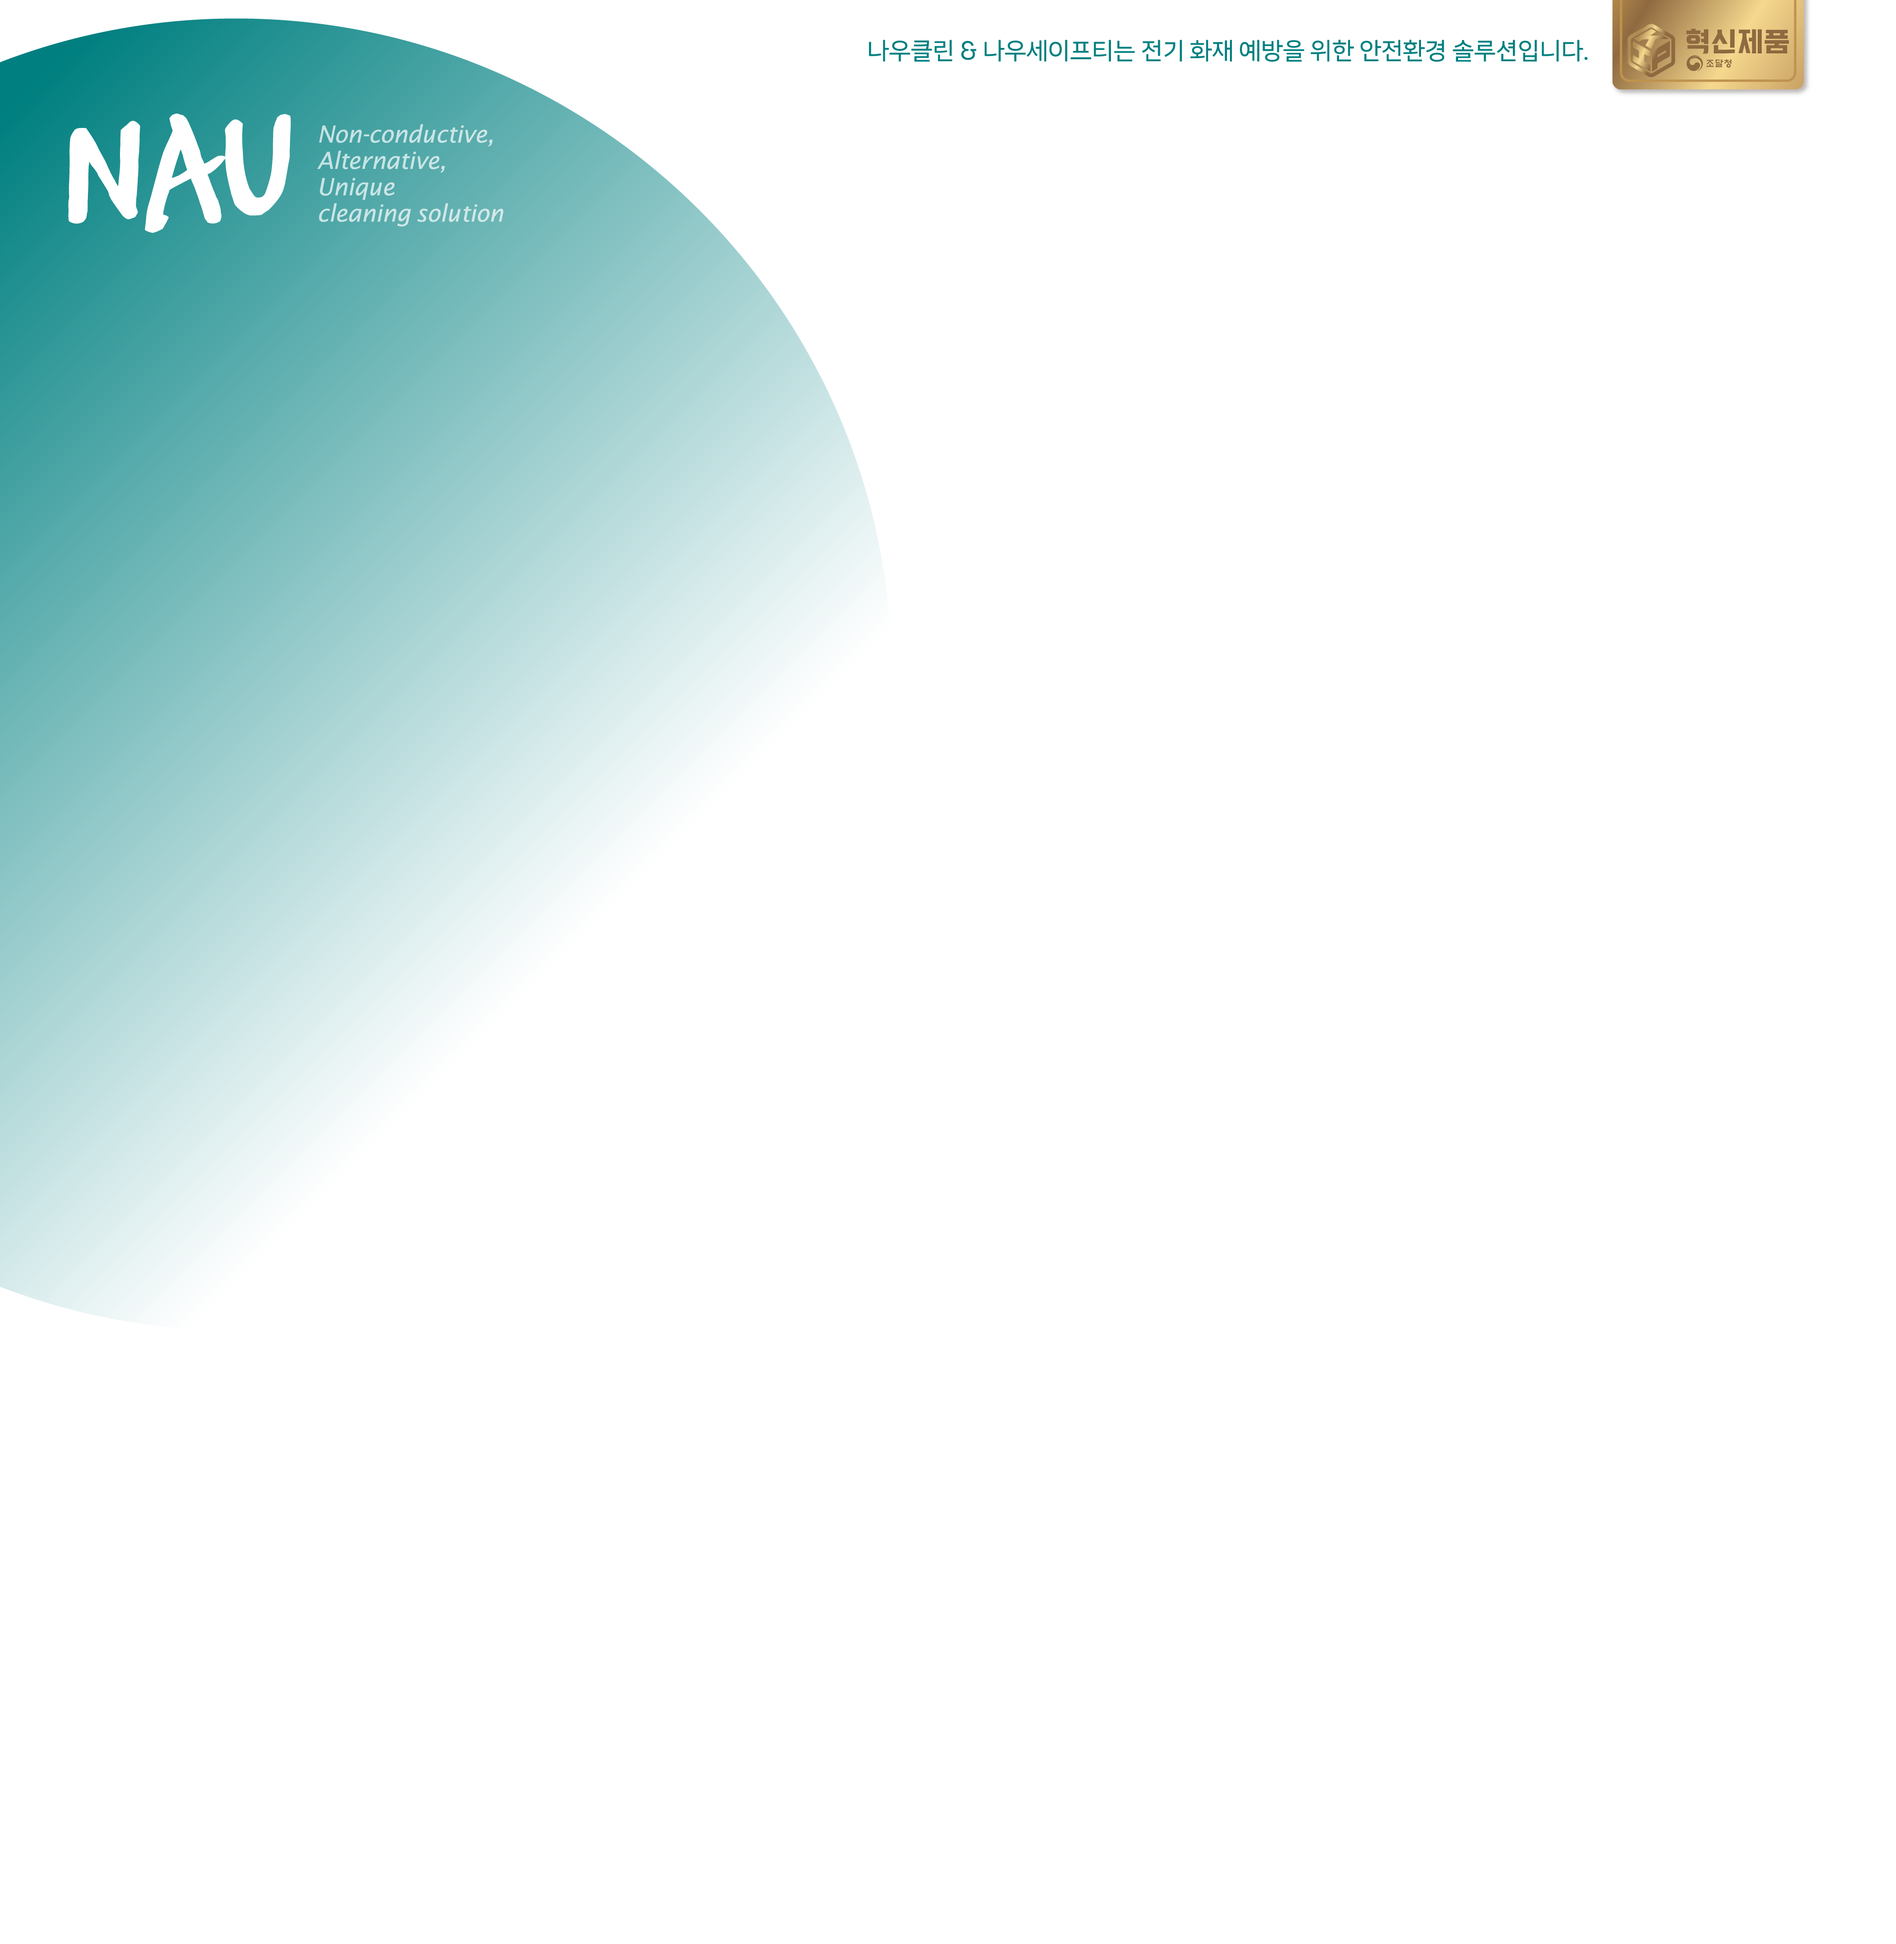
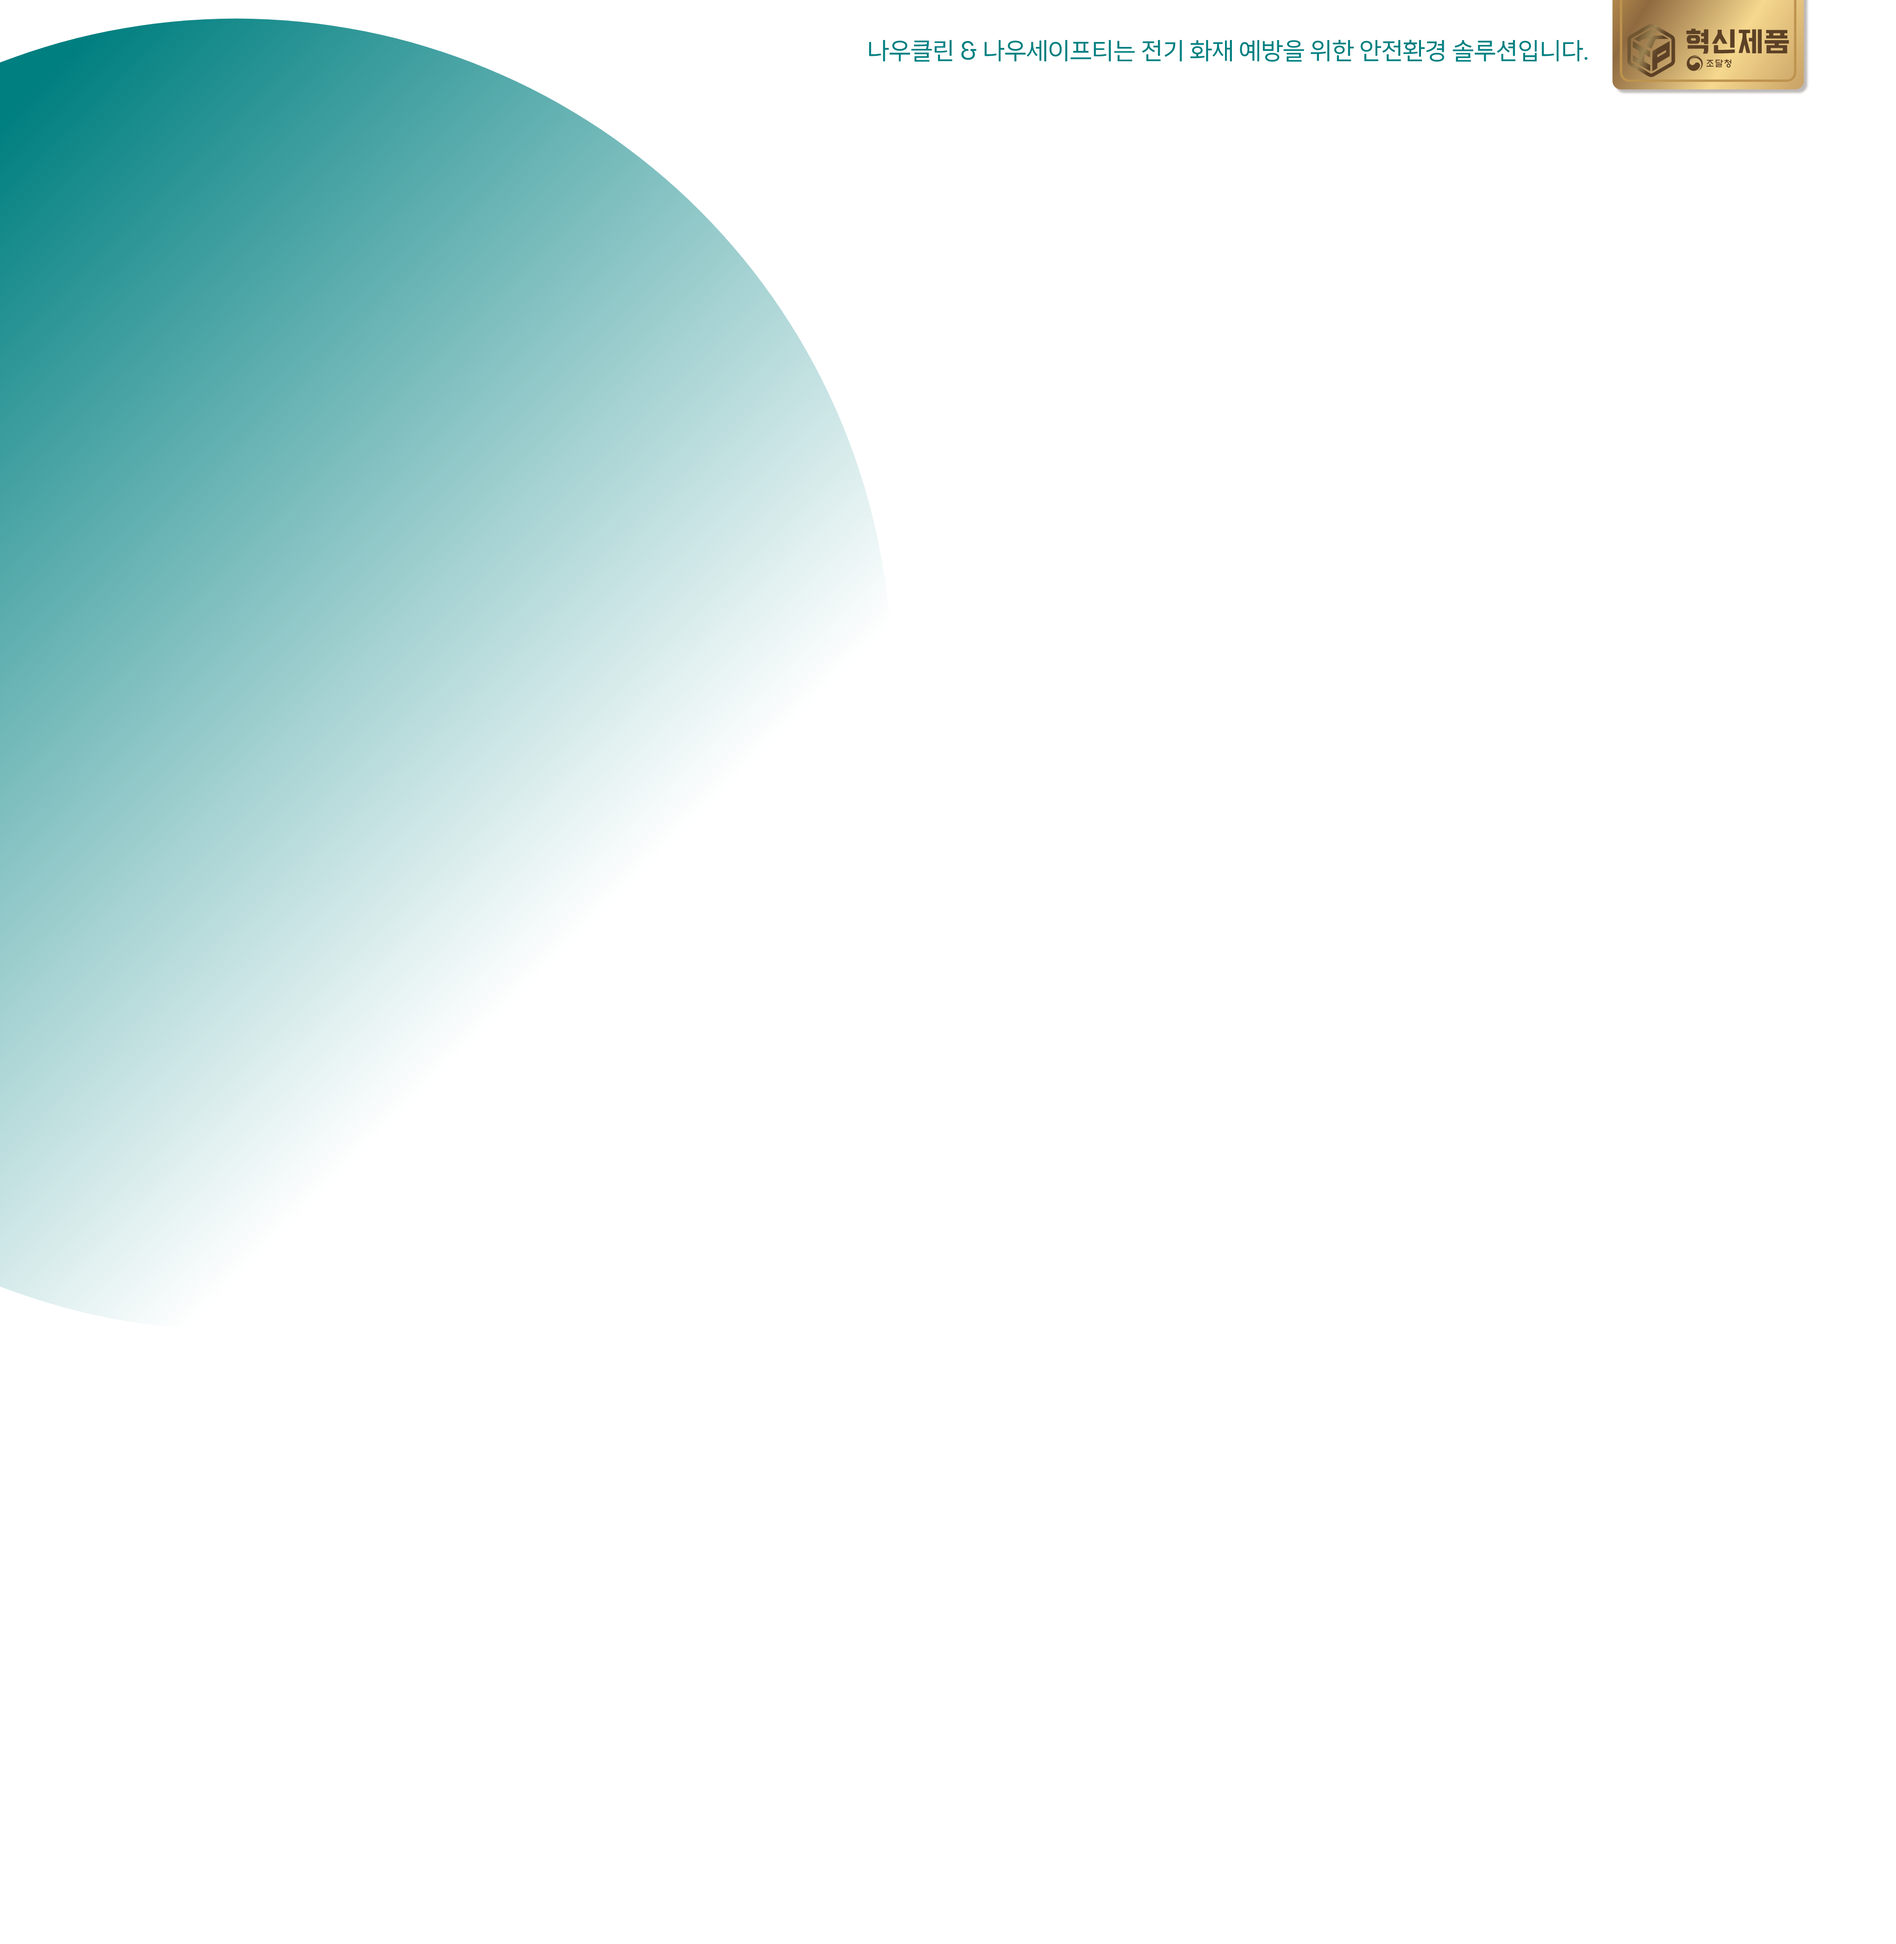
수정작업중

Changed region(s): [[0.0312, 0.0625, 0.25, 0.125], [0.8438, 0.0, 0.9375, 0.0312]]

diff --git a/nau/assets/css/user/main.css b/nau/assets/css/user/main.css
@@ -2,7 +2,7 @@
 
 /* cmn */
 .main{overflow: auto;}
-.container-main { width: 100%; padding: 0 70px; height: 100vh; display: flex; align-items: center; justify-content: center; background: url("../../images/ko/main/main-bg.png") no-repeat center / cover; } 
+.container-main { width: 100%; padding: 0 70px; height: 100vh; display: flex; align-items: center; justify-content: center; background: url("../../images/ko/main/main-bg.png") no-repeat top / cover; } 
 .main-menu { width: 100%; height: 100%; display: flex; align-items: center; justify-content: center; gap: 70px; } 
 .main-menu__box {transition: .4s; width: 515px;padding: 0 33px;padding-top: 169px;padding-bottom: 30px;border-radius: 8.5px;overflow: hidden;height: auto;}
 .main-menu__box.box01{background: url("../../images/ko/main/menu-box01.png") no-repeat center / cover; margin-top: 88px;}
@@ -20,7 +20,7 @@
 
 
 /* en */
-.en .container-main { background: url("../../images/en/main/main-bg.png") no-repeat center / cover; } 
+.en .container-main { background: url("../../images/en/main/main-bg.png") no-repeat top / cover; } 
 .en .main-menu__box.box01{background: url("../../images/en/main/menu-box01.png") no-repeat center / cover; margin-top: 88px;}
 .en .main-menu__box.box02{background: url("../../images/en/main/menu-box02.png") no-repeat center / cover;}
 .en .main-menu__box.box03{background: url("../../images/en/main/menu-box03.png") no-repeat center / cover; margin-top: 150px;}
@@ -29,7 +29,7 @@
 .en .main-menu__box.box03:hover{background-image: url("../../images/en/main/menu-box03_on.png");}
 
 /* cn */
-.cn .container-main { background: url("../../images/cn/main/main-bg.png") no-repeat center / cover; } 
+.cn .container-main { background: url("../../images/cn/main/main-bg.png") no-repeat top / cover; } 
 .cn .main-menu__box.box01{background: url("../../images/cn/main/menu-box01.png") no-repeat center / cover; margin-top: 88px;}
 .cn .main-menu__box.box02{background: url("../../images/cn/main/menu-box02.png") no-repeat center / cover;}
 .cn .main-menu__box.box03{background: url("../../images/cn/main/menu-box03.png") no-repeat center / cover; margin-top: 150px;}

diff --git a/nau/assets/css/user/sub.css b/nau/assets/css/user/sub.css
@@ -19,6 +19,9 @@ body{overflow: hidden;}
 .content-scroll{overflow-x: auto;}
 .content-scroll img{width: 3884px;}
 .content03{margin-top: 126px;}
+.sub-content{width: calc(1275px + 180px);}
+.logo{position: absolute; top: 115px; left: 60px; z-index: 22;}
+
 
 /* clean */
 .container-clean.container-sub{background-image: url('../../images/ko/sub/clean/sub-bg.png')}
@@ -48,8 +51,8 @@ body{overflow: hidden;}
 
 @media screen and (max-width: 1400px) {
   body{overflow-x: auto;}
-  .sub-content{width: calc(1275px + 180px);}
   .container-wrap{display: block;}
+
 }
 
 @media screen and (max-width: 768px) {

diff --git a/nau/config/cn/safety/sub01.html b/nau/config/cn/safety/sub01.html
@@ -98,7 +98,9 @@
 
 	<!---------------------------------------------------------- s:container ----------------------------------------------------------->
 	<div class="container container-sub container-safety" id="container">
-
+		<a href="../../../index.html" class="logo">
+			<img src="../../../assets/images/cn/sub/sub-logo.svg" alt="">
+		</a>
 		<div class="container-wrap">
 			<aside class="sub-aside">
 					<ul>

diff --git a/nau/config/cn/safety/sub02.html b/nau/config/cn/safety/sub02.html
@@ -98,7 +98,9 @@
 
 	<!---------------------------------------------------------- s:container ----------------------------------------------------------->
 	<div class="container container-sub container-safety" id="container">
-
+		<a href="../../../index.html" class="logo">
+			<img src="../../../assets/images/cn/sub/sub-logo.svg" alt="">
+		</a>
 		<div class="container-wrap">
 			<aside class="sub-aside">
 					<ul>

diff --git a/nau/config/en/safety/sub01.html b/nau/config/en/safety/sub01.html
@@ -98,7 +98,9 @@
 
 	<!---------------------------------------------------------- s:container ----------------------------------------------------------->
 	<div class="container container-sub container-safety" id="container">
-
+		<a href="../../../index.html" class="logo">
+			<img src="../../../assets/images/en/sub/sub-logo.svg" alt="">
+		</a>
 		<div class="container-wrap">
 			<aside class="sub-aside">
 					<ul>

diff --git a/nau/config/en/safety/sub02.html b/nau/config/en/safety/sub02.html
@@ -98,7 +98,9 @@
 
 	<!---------------------------------------------------------- s:container ----------------------------------------------------------->
 	<div class="container container-sub container-safety" id="container">
-
+		<a href="../../../index.html" class="logo">
+			<img src="../../../assets/images/en/sub/sub-logo.svg" alt="">
+		</a>
 		<div class="container-wrap">
 			<aside class="sub-aside">
 					<ul>

diff --git a/nau/config/ko/safety/sub01.html b/nau/config/ko/safety/sub01.html
@@ -98,7 +98,9 @@
 
 	<!---------------------------------------------------------- s:container ----------------------------------------------------------->
 	<div class="container container-sub container-safety" id="container">
-
+		<a href="../../../index.html" class="logo">
+			<img src="../../../assets/images/ko/sub/sub-logo.svg" alt="">
+		</a>
 		<div class="container-wrap">
 			<aside class="sub-aside">
 					<ul>

diff --git a/nau/config/ko/safety/sub02.html b/nau/config/ko/safety/sub02.html
@@ -98,7 +98,9 @@
 
 	<!---------------------------------------------------------- s:container ----------------------------------------------------------->
 	<div class="container container-sub container-safety" id="container">
-
+		<a href="../../../index.html" class="logo">
+			<img src="../../../assets/images/ko/sub/sub-logo.svg" alt="">
+		</a>
 		<div class="container-wrap">
 			<aside class="sub-aside">
 					<ul>

diff --git a/nau/config/cn/clean/sub01.html b/nau/config/cn/clean/sub01.html
@@ -98,7 +98,9 @@
 
 	<!---------------------------------------------------------- s:container ----------------------------------------------------------->
 	<div class="container container-sub container-clean" id="container">
-
+		<a href="../../../index.html" class="logo">
+			<img src="../../../assets/images/cn/sub/sub-logo.svg" alt="">
+		</a>
 		<div class="container-wrap">
 			<aside class="sub-aside">
 					<ul>

diff --git a/nau/config/cn/clean/sub02.html b/nau/config/cn/clean/sub02.html
@@ -98,7 +98,9 @@
 
 	<!---------------------------------------------------------- s:container ----------------------------------------------------------->
 	<div class="container container-sub container-clean" id="container">
-
+		<a href="../../../index.html" class="logo">
+			<img src="../../../assets/images/cn/sub/sub-logo.svg" alt="">
+		</a>
 		<div class="container-wrap">
 			<aside class="sub-aside">
 					<ul>

diff --git a/nau/config/cn/clean/sub03.html b/nau/config/cn/clean/sub03.html
@@ -98,7 +98,9 @@
 
 	<!---------------------------------------------------------- s:container ----------------------------------------------------------->
 	<div class="container container-sub container-clean" id="container">
-
+		<a href="../../../index.html" class="logo">
+			<img src="../../../assets/images/cn/sub/sub-logo.svg" alt="">
+		</a>
 		<div class="container-wrap">
 			<aside class="sub-aside">
 					<ul>

diff --git a/nau/config/cn/clean/sub04.html b/nau/config/cn/clean/sub04.html
@@ -98,7 +98,9 @@
 
 	<!---------------------------------------------------------- s:container ----------------------------------------------------------->
 	<div class="container container-sub container-clean" id="container">
-
+		<a href="../../../index.html" class="logo">
+			<img src="../../../assets/images/cn/sub/sub-logo.svg" alt="">
+		</a>
 		<div class="container-wrap">
 			<aside class="sub-aside">
 					<ul>
